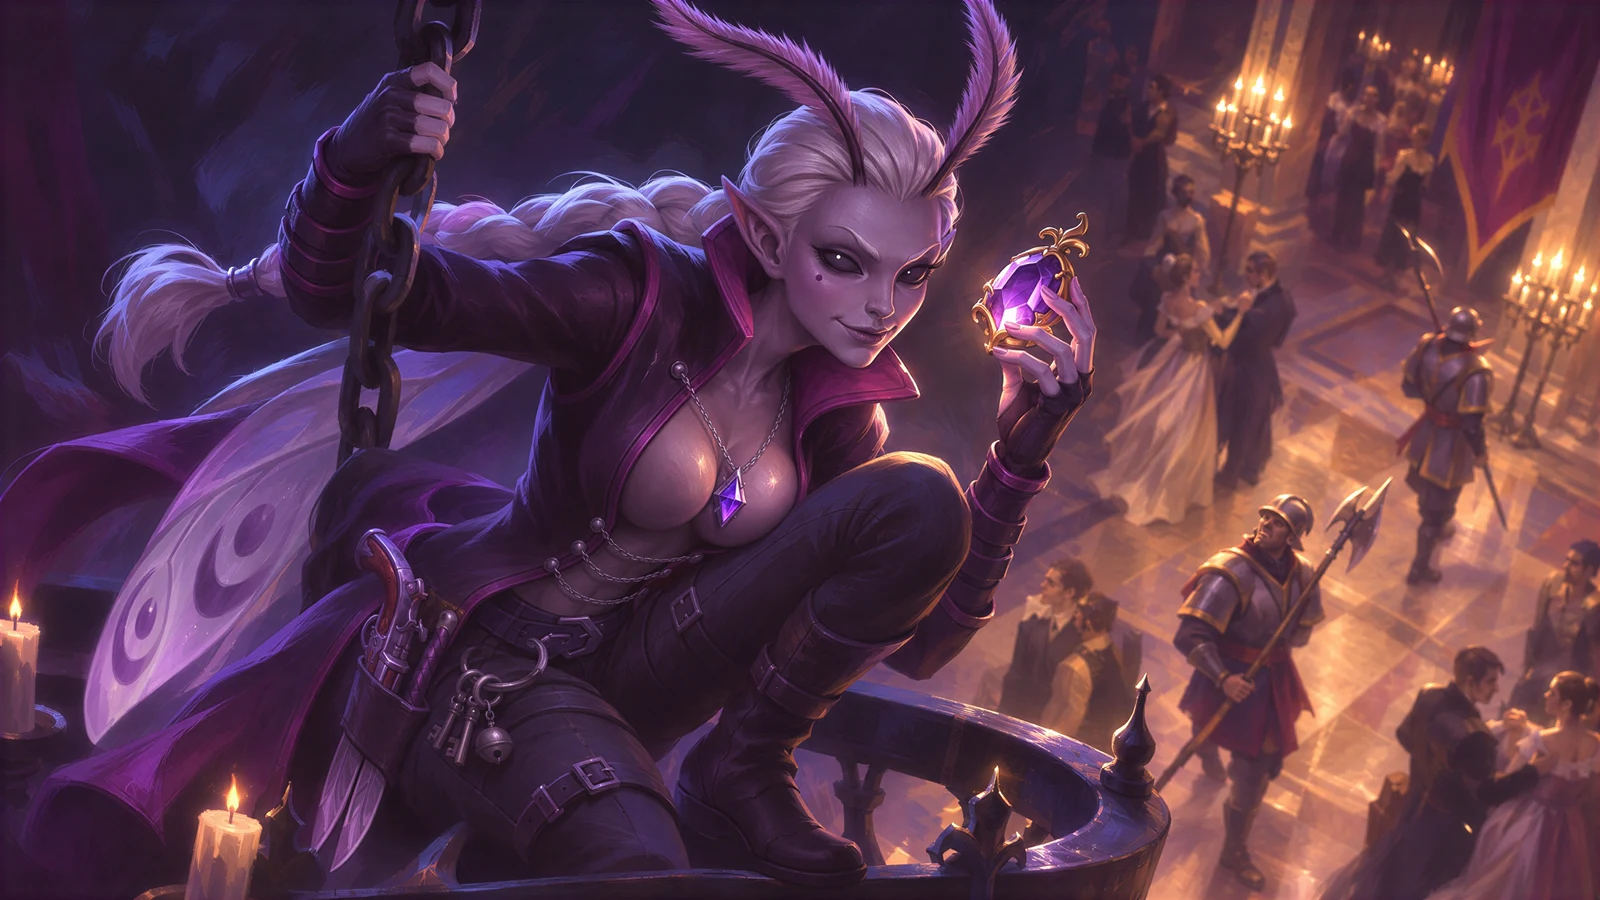
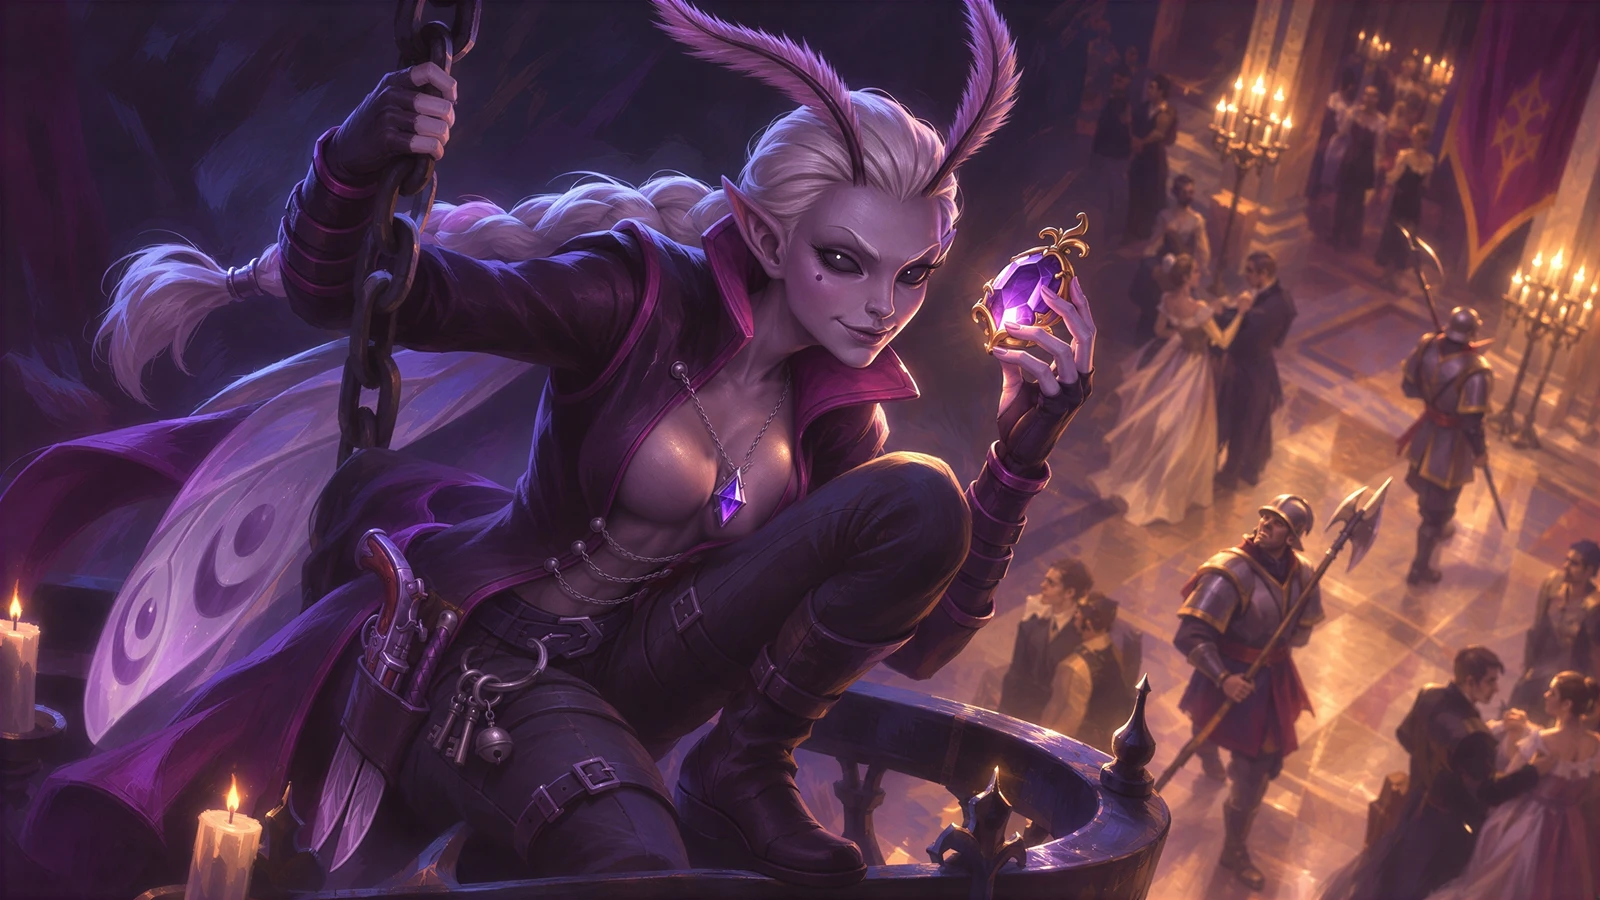
Hunter splash: Sable r8 A bust -10% (S1, owner 11-14)
Claude-Session: https://claude.ai/code/session_01Fa986kEoxoUbsf7VZzVwQa

Changed region(s): [[0.375, 0.4356, 0.5, 0.6222]]

diff --git a/presskit.html b/presskit.html
@@ -101,19 +101,19 @@
         </div>
         <h2>Hunter art</h2>
         <div class="pk-grid">
-          <a href="assets/img/hunters/lisette-2400.webp?v=2026-11-14w55" target="_blank"><img src="assets/img/hunters/lisette-960.webp?v=2026-11-14w55" alt="Lace splash art" loading="lazy"><span class="pk-cap">Lace</span></a>
-          <a href="assets/img/hunters/breaker-2400.webp?v=2026-11-14w55" target="_blank"><img src="assets/img/hunters/breaker-960.webp?v=2026-11-14w55" alt="Albert splash art" loading="lazy"><span class="pk-cap">Albert</span></a>
-          <a href="assets/img/hunters/vex-2400.webp?v=2026-11-14w55" target="_blank"><img src="assets/img/hunters/vex-960.webp?v=2026-11-14w55" alt="Vex splash art" loading="lazy"><span class="pk-cap">Vex</span></a>
-          <a href="assets/img/hunters/kael-2400.webp?v=2026-11-14w55" target="_blank"><img src="assets/img/hunters/kael-960.webp?v=2026-11-14w55" alt="Kael splash art" loading="lazy"><span class="pk-cap">Kael</span></a>
-          <a href="assets/img/hunters/claire-2400.webp?v=2026-11-14w55" target="_blank"><img src="assets/img/hunters/claire-960.webp?v=2026-11-14w55" alt="Neve splash art" loading="lazy"><span class="pk-cap">Neve</span></a>
-          <a href="assets/img/hunters/cinder-2400.webp?v=2026-11-14w55" target="_blank"><img src="assets/img/hunters/cinder-960.webp?v=2026-11-14w55" alt="Cinder splash art" loading="lazy"><span class="pk-cap">Cinder</span></a>
-          <a href="assets/img/hunters/tarek-2400.webp?v=2026-11-14w55" target="_blank"><img src="assets/img/hunters/tarek-960.webp?v=2026-11-14w55" alt="Tenzo splash art" loading="lazy"><span class="pk-cap">Tenzo</span></a>
-          <a href="assets/img/hunters/ryzz-2400.webp?v=2026-11-14w55" target="_blank"><img src="assets/img/hunters/ryzz-960.webp?v=2026-11-14w55" alt="Sparkle splash art" loading="lazy"><span class="pk-cap">Sparkle</span></a>
-          <a href="assets/img/hunters/grimble-2400.webp?v=2026-11-14w55" target="_blank"><img src="assets/img/hunters/grimble-960.webp?v=2026-11-14w55" alt="Grimble splash art" loading="lazy"><span class="pk-cap">Grimble</span></a>
-          <a href="assets/img/hunters/pip-2400.webp?v=2026-11-14w55" target="_blank"><img src="assets/img/hunters/pip-960.webp?v=2026-11-14w55" alt="Meeko splash art" loading="lazy"><span class="pk-cap">Meeko</span></a>
-          <a href="assets/img/hunters/sable-2400.webp?v=2026-11-14w55" target="_blank"><img src="assets/img/hunters/sable-960.webp?v=2026-11-14w55" alt="Sable splash art" loading="lazy"><span class="pk-cap">Sable</span></a>
-          <a href="assets/img/hunters/gill-2400.webp?v=2026-11-14w55" target="_blank"><img src="assets/img/hunters/gill-960.webp?v=2026-11-14w55" alt="Gill splash art" loading="lazy"><span class="pk-cap">Gill</span></a>
-          <a href="assets/img/hunters/motley-2400.webp?v=2026-11-14w55" target="_blank"><img src="assets/img/hunters/motley-960.webp?v=2026-11-14w55" alt="Motley splash art" loading="lazy"><span class="pk-cap">Motley</span></a>
+          <a href="assets/img/hunters/lisette-2400.webp?v=2026-11-14x09" target="_blank"><img src="assets/img/hunters/lisette-960.webp?v=2026-11-14x09" alt="Lace splash art" loading="lazy"><span class="pk-cap">Lace</span></a>
+          <a href="assets/img/hunters/breaker-2400.webp?v=2026-11-14x09" target="_blank"><img src="assets/img/hunters/breaker-960.webp?v=2026-11-14x09" alt="Albert splash art" loading="lazy"><span class="pk-cap">Albert</span></a>
+          <a href="assets/img/hunters/vex-2400.webp?v=2026-11-14x09" target="_blank"><img src="assets/img/hunters/vex-960.webp?v=2026-11-14x09" alt="Vex splash art" loading="lazy"><span class="pk-cap">Vex</span></a>
+          <a href="assets/img/hunters/kael-2400.webp?v=2026-11-14x09" target="_blank"><img src="assets/img/hunters/kael-960.webp?v=2026-11-14x09" alt="Kael splash art" loading="lazy"><span class="pk-cap">Kael</span></a>
+          <a href="assets/img/hunters/claire-2400.webp?v=2026-11-14x09" target="_blank"><img src="assets/img/hunters/claire-960.webp?v=2026-11-14x09" alt="Neve splash art" loading="lazy"><span class="pk-cap">Neve</span></a>
+          <a href="assets/img/hunters/cinder-2400.webp?v=2026-11-14x09" target="_blank"><img src="assets/img/hunters/cinder-960.webp?v=2026-11-14x09" alt="Cinder splash art" loading="lazy"><span class="pk-cap">Cinder</span></a>
+          <a href="assets/img/hunters/tarek-2400.webp?v=2026-11-14x09" target="_blank"><img src="assets/img/hunters/tarek-960.webp?v=2026-11-14x09" alt="Tenzo splash art" loading="lazy"><span class="pk-cap">Tenzo</span></a>
+          <a href="assets/img/hunters/ryzz-2400.webp?v=2026-11-14x09" target="_blank"><img src="assets/img/hunters/ryzz-960.webp?v=2026-11-14x09" alt="Sparkle splash art" loading="lazy"><span class="pk-cap">Sparkle</span></a>
+          <a href="assets/img/hunters/grimble-2400.webp?v=2026-11-14x09" target="_blank"><img src="assets/img/hunters/grimble-960.webp?v=2026-11-14x09" alt="Grimble splash art" loading="lazy"><span class="pk-cap">Grimble</span></a>
+          <a href="assets/img/hunters/pip-2400.webp?v=2026-11-14x09" target="_blank"><img src="assets/img/hunters/pip-960.webp?v=2026-11-14x09" alt="Meeko splash art" loading="lazy"><span class="pk-cap">Meeko</span></a>
+          <a href="assets/img/hunters/sable-2400.webp?v=2026-11-14x09" target="_blank"><img src="assets/img/hunters/sable-960.webp?v=2026-11-14x09" alt="Sable splash art" loading="lazy"><span class="pk-cap">Sable</span></a>
+          <a href="assets/img/hunters/gill-2400.webp?v=2026-11-14x09" target="_blank"><img src="assets/img/hunters/gill-960.webp?v=2026-11-14x09" alt="Gill splash art" loading="lazy"><span class="pk-cap">Gill</span></a>
+          <a href="assets/img/hunters/motley-2400.webp?v=2026-11-14x09" target="_blank"><img src="assets/img/hunters/motley-960.webp?v=2026-11-14x09" alt="Motley splash art" loading="lazy"><span class="pk-cap">Motley</span></a>
         </div>
         <h2>Boki art</h2>
         <div class="pk-grid pk-grid-boki" id="pk-boki" hidden></div>
@@ -151,7 +151,7 @@
   <div class="consent-b"><button class="btn btn-glass btn-sm" type="button" data-no>Decline</button><button class="btn btn-solid btn-sm" type="button" data-yes>Accept</button></div>
 </div>
 
-<script src="assets/site.js?v=275"></script>
+<script src="assets/site.js?v=276"></script>
 <script src="assets/signup.js?v=1"></script>
 <script src="/assets/topbar.js?v=6" defer></script>
 </body>

diff --git a/index.html b/index.html
@@ -170,7 +170,7 @@
       <button class="bk-arrow prev h-arrow" type="button" id="h-prev" aria-label="Previous Hunter"><svg viewBox="0 0 24 24" aria-hidden="true"><path d="M15 5l-7 7 7 7" fill="none" stroke="currentColor" stroke-width="2.6" stroke-linecap="round" stroke-linejoin="round"/></svg></button>
       <button class="bk-arrow next h-arrow" type="button" id="h-next" aria-label="Next Hunter"><svg viewBox="0 0 24 24" aria-hidden="true"><path d="M9 5l7 7-7 7" fill="none" stroke="currentColor" stroke-width="2.6" stroke-linecap="round" stroke-linejoin="round"/></svg></button>
       <div class="bk-count h-count"><b id="h-n">01</b> / <span>13</span></div>
-      <div class="shot"><img data-zoom id="h-art" src="assets/img/hunters/ryzz-1600.webp?v=2026-11-14w55" srcset="assets/img/hunters/ryzz-960.webp?v=2026-11-14w55 960w, assets/img/hunters/ryzz-1600.webp?v=2026-11-14w55 1600w, assets/img/hunters/ryzz-2400.webp?v=2026-11-14w55 2400w" sizes="(max-width: 720px) 260vw, (max-width: 1000px) and (orientation: portrait) 150vw, (max-width: 1280px) 100vw, 1240px" alt="Sparkle, the Storm Chaser" loading="lazy"><button class="h-expand" type="button" id="h-expand" aria-label="View full art"><svg viewBox="0 0 24 24" fill="none" stroke="currentColor" stroke-width="2.2" stroke-linecap="round" stroke-linejoin="round" aria-hidden="true"><path d="M14 4h6v6M10 20H4v-6M20 4l-6.5 6.5M4 20l6.5-6.5"/></svg></button></div>
+      <div class="shot"><img data-zoom id="h-art" src="assets/img/hunters/ryzz-1600.webp?v=2026-11-14x09" srcset="assets/img/hunters/ryzz-960.webp?v=2026-11-14x09 960w, assets/img/hunters/ryzz-1600.webp?v=2026-11-14x09 1600w, assets/img/hunters/ryzz-2400.webp?v=2026-11-14x09 2400w" sizes="(max-width: 720px) 260vw, (max-width: 1000px) and (orientation: portrait) 150vw, (max-width: 1280px) 100vw, 1240px" alt="Sparkle, the Storm Chaser" loading="lazy"><button class="h-expand" type="button" id="h-expand" aria-label="View full art"><svg viewBox="0 0 24 24" fill="none" stroke="currentColor" stroke-width="2.2" stroke-linecap="round" stroke-linejoin="round" aria-hidden="true"><path d="M14 4h6v6M10 20H4v-6M20 4l-6.5 6.5M4 20l6.5-6.5"/></svg></button></div>
       <div class="info" aria-live="polite">
         <div class="role" id="h-role" data-role="Skirmisher">Skirmisher</div>
         <h3 id="h-name">Sparkle</h3>
@@ -289,7 +289,7 @@
   <symbol id="i-play" viewBox="0 0 24 24"><path d="M7 4.5v15a1 1 0 0 0 1.5.86l12.4-7.5a1 1 0 0 0 0-1.72L8.5 3.64A1 1 0 0 0 7 4.5Z"/></symbol>
 </svg>
 
-<script src="assets/site.js?v=275"></script>
+<script src="assets/site.js?v=276"></script>
 <script src="assets/signup.js?v=1"></script>
 <script src="/assets/topbar.js?v=6" defer></script>
 </body>

diff --git a/devlog.html b/devlog.html
@@ -62,7 +62,7 @@
       <article class="dl-post" id="hunter-kits">
         <time datetime="2026-11-09">November 9, 2026</time>
         <h2>Hunter kits are on the site</h2>
-        <a class="dl-img" href="index.html#hunters"><img src="assets/img/hunters/breaker-1600.webp?v=2026-11-14w55" width="1600" height="893" alt="Albert, the Barnacle Knight" loading="lazy"></a>
+        <a class="dl-img" href="index.html#hunters"><img src="assets/img/hunters/breaker-1600.webp?v=2026-11-14x09" width="1600" height="893" alt="Albert, the Barnacle Knight" loading="lazy"></a>
         <p>Tap Abilities on any Hunter to see their full kit: weapon, passive, dash, both abilities and their ultimate.</p>
         <p>The kits come straight from the game files, so they stay current as we tune each Hunter.</p>
       </article>
@@ -90,7 +90,7 @@
   <div class="consent-b"><button class="btn btn-glass btn-sm" type="button" data-no>Decline</button><button class="btn btn-solid btn-sm" type="button" data-yes>Accept</button></div>
 </div>
 
-<script src="assets/site.js?v=275"></script>
+<script src="assets/site.js?v=276"></script>
 <script src="assets/signup.js?v=1"></script>
 <script src="/assets/topbar.js?v=6" defer></script>
 </body>

diff --git a/assets/site.js b/assets/site.js
@@ -192,7 +192,7 @@ if (heroIn && !calm) {
 
 /* ---------- Hunters: pick a Mask ---------- */
 // [id, name, title, has an up-to-date in-game model, role (from the kit's role line in the game)]
-const ART_V = "2026-11-14w55"; // bump when a Hunter splash changes
+const ART_V = "2026-11-14x09"; // bump when a Hunter splash changes
 const HUNTERS = [
   ["ryzz", "Sparkle", "The Storm Chaser", true, "Skirmisher"],
   ["tarek", "Tenzo", "The Stone Seer", true, "Brawler"],

diff --git a/privacy.html b/privacy.html
@@ -99,7 +99,7 @@
   <div class="consent-b"><button class="btn btn-glass btn-sm" type="button" data-no>Decline</button><button class="btn btn-solid btn-sm" type="button" data-yes>Accept</button></div>
 </div>
 
-<script src="assets/site.js?v=275"></script>
+<script src="assets/site.js?v=276"></script>
 <script src="assets/signup.js?v=1"></script>
 <script src="/assets/topbar.js?v=6" defer></script>
 </body>
